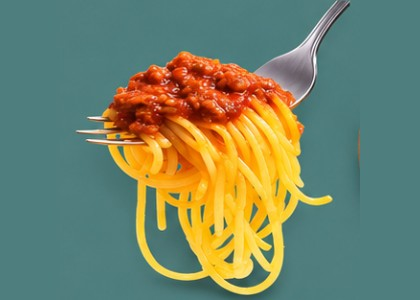
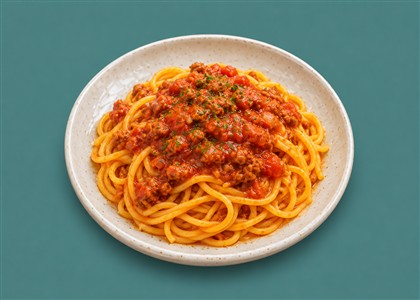
penambahan menu best seller, dan menu bakery, serta pembuatan halaman tentang kami

diff --git a/menu.html b/menu.html
@@ -43,6 +43,84 @@
       ></div>
       <p class="jumlah-menu" id="jumlah-menu" aria-live="polite"></p>
 
+      <div class="kategori-menu" id="bakery">
+        <h2>Bakery</h2>
+        <p>Pilihan etalase dibuat segar setiap hari. Stok dapat berubah setiap hari.</p>
+        <div class="daftar-menu">
+          <div class="kartu-menu">
+            <img class="foto-menu" src="images/menu/pisang-coklat.jpg" alt="Pisang Coklat" loading="lazy" width="420" height="300" />
+            <div class="isi-menu">
+              <h3>Pisang Coklat</h3>
+              <p>Pisang dengan isian cokelat.</p>
+              <div class="harga">Rp5.000</div>
+            </div>
+          </div>
+
+          <div class="kartu-menu">
+            <img class="foto-menu" src="images/menu/banoffee-bread.jpg" alt="Banoffee Bread" loading="lazy" width="420" height="300" />
+            <div class="isi-menu">
+              <h3>Banoffee Bread</h3>
+              <p>Roti manis dengan pisang dan karamel.</p>
+              <div class="harga">Rp8.000</div>
+            </div>
+          </div>
+
+          <div class="kartu-menu">
+            <img class="foto-menu" src="images/menu/coffee-bun.jpg" alt="Coffee Bun" loading="lazy" width="420" height="300" />
+            <div class="isi-menu">
+              <h3>Coffee Bun</h3>
+              <p>Roti bulat dengan lapisan kopi di atasnya.</p>
+              <div class="harga">Rp15.000</div>
+            </div>
+          </div>
+
+          <div class="kartu-menu">
+            <img class="foto-menu" src="images/menu/brownies.jpg" alt="Brownies" loading="lazy" width="420" height="300" />
+            <div class="isi-menu">
+              <h3>Brownies</h3>
+              <p>Potongan brownies cokelat.</p>
+              <div class="harga">Rp22.000</div>
+            </div>
+          </div>
+
+          <div class="kartu-menu">
+            <img class="foto-menu" src="images/menu/croissant.jpg" alt="Croissant" loading="lazy" width="420" height="300" />
+            <div class="isi-menu">
+              <h3>Croissant</h3>
+              <p>Pastri berlapis dengan tekstur renyah. Stok harian terbatas.</p>
+              <div class="harga">Rp18.000</div>
+            </div>
+          </div>
+
+          <div class="kartu-menu">
+            <img class="foto-menu" src="images/menu/donat.jpg" alt="Donat" loading="lazy" width="420" height="300" />
+            <div class="isi-menu">
+              <h3>Donat</h3>
+              <p>Donat manis yang dibuat setiap hari dalam jumlah terbatas.</p>
+              <div class="harga">Rp10.000</div>
+            </div>
+          </div>
+
+          <div class="kartu-menu">
+            <img class="foto-menu" src="images/menu/cinnamon-roll.jpg" alt="Cinnamon Roll" loading="lazy" width="420" height="300" />
+            <div class="isi-menu">
+              <h3>Cinnamon Roll</h3>
+              <p>Roti gulung dengan kayu manis.</p>
+              <div class="harga">Rp18.000</div>
+            </div>
+          </div>
+
+          <div class="kartu-menu">
+            <img class="foto-menu" src="images/menu/sosis-bun.jpg" alt="Sosis Bun" loading="lazy" width="420" height="300" />
+            <div class="isi-menu">
+              <h3>Sosis Bun</h3>
+              <p>Roti lembut dengan isian sosis.</p>
+              <div class="harga">Rp15.000</div>
+            </div>
+          </div>
+        </div>
+      </div>
+
       <div class="kategori-menu" id="brunch">
         <h2>Brunch</h2>
         <div class="daftar-menu">
@@ -1591,7 +1669,7 @@
       </div>
     </main>
 
-    <footer>
+   <footer>
       <div class="wadah-footer">
         <div class="isi-footer">
           <div>
@@ -1609,6 +1687,27 @@
               <a href="galeri.html"> Galeri </a>
               <a href="tentang-kami.html"> Tentang Kami </a>
             </nav>
+          </div>
+          <div id="kontak-footer" aria-labelledby="judul-kontak-footer">
+            <strong id="judul-kontak-footer">Kontak dan Lokasi</strong>
+            <div class="rincian-kontak">
+              <a href="https://www.google.com/maps/search/?api=1&amp;query=AKURASA%2C%20Jl.%20Dangin%20Labak%20No.%20II%2C%20Singakerta%2C%20Ubud%2C%20Bali%2080571">
+                <i class="fa-solid fa-location-dot fa-fw" aria-hidden="true"></i>
+                <span>Jl. Dangin Labak No. II, Singakerta, Ubud, Gianyar, Bali 80571</span>
+              </a>
+              <a href="https://wa.me/6282314693140">
+                <i class="fa-brands fa-whatsapp fa-fw" aria-hidden="true"></i>
+                <span>WhatsApp</span>
+              </a>
+              <a href="https://www.instagram.com/akurasa.ubud?bqrl=a3FpbXVzNmJyYngz">
+                <i class="fa-brands fa-instagram fa-fw" aria-hidden="true"></i>
+                <span>Instagram</span>
+              </a>
+              <a href="https://linktr.ee/akurasaubud?utm_source=ig&utm_medium=social&utm_content=link_in_bio&fbclid=PAb21jcAVrYEdleHRuA2FlbQIxMQBwZG9mAnNydGMGYXBwX2lkDzU2NzA2NzM0MzM1MjQyNwABpxk1pA6ZG0eQS9rk02yGtnL_5nn-lodij7qAYlXDRduI0tRqXCJdMqxHfafN_aem_oMFq9vjvWbjLoJb4VoWf6Q">
+                <i class="fa-brands fa-linktree fa-fw" aria-hidden="true"></i>
+                <span>Linktree</span>
+              </a>
+            </div>
           </div>
         </div>
         <div class="hak-cipta">AKURASA</div>

diff --git a/index.html b/index.html
@@ -66,22 +66,24 @@
           <div class="judul-kecil">Pilihan Favorit</div>
           <h2>Menu Best Seller</h2>
           <p>Beberapa menu favorit yang disediakan AKURASA.</p>
+          <div class="filter-menu" id="filter-menu" role="group" aria-label="Filter Best Seller"></div>
+          <p class="jumlah-menu" id="jumlah-menu" aria-live="polite"></p>
         </header>
-        <div class="kategori-menu">
+        <div class="kategori-menu" id="minuman-favorit">
           <h2>Minuman favorit</h2>
           <div class="daftar-menu">
             <div class="kartu-menu">
               <img
                 class="foto-menu"
-                src="images/menu/oreo-chocolate.jpg"
-                alt="Oreo Chocolate"
+                src="images/menu/aren-latte.jpg"
+                alt="Aren Latte"
                 loading="lazy"
                 width="420"
                 height="300"
               />
               <div class="isi-menu">
-                <h3>Oreo Chocolate</h3>
-                <p>Es cokelat dengan biskuit Oreo.</p>
+                <h3>Aren Latte</h3>
+                <p>Es latte dengan gula aren.</p>
                 <div class="harga">Rp33.000</div>
               </div>
             </div>
@@ -107,30 +109,36 @@
             </div>
           </div>
         </div>
-        <div class="kategori-menu">
+        <div class="kategori-menu" id="bakery">
           <h2>Roti dan camilan</h2>
           <div class="daftar-menu">
             <div class="kartu-menu">
-              <img class="foto-menu" src="images/foto-sementara.svg" alt="" loading="lazy" width="420" height="300" />
+              <img class="foto-menu" src="images/menu/cinnamon-roll.jpg" alt="Cinnamon Roll" loading="lazy" width="420" height="300" />
               <div class="isi-menu">
                 <h3>Cinnamon Roll</h3>
+                <p>Roti gulung dengan kayu manis.</p>
+                <div class="harga">Rp18.000</div>
               </div>
             </div>
             <div class="kartu-menu">
-              <img class="foto-menu" src="images/foto-sementara.svg" alt="" loading="lazy" width="420" height="300" />
+              <img class="foto-menu" src="images/menu/sosis-bun.jpg" alt="Sosis Bun" loading="lazy" width="420" height="300" />
               <div class="isi-menu">
                 <h3>Sosis Bun</h3>
+                <p>Roti lembut dengan isian sosis.</p>
+                <div class="harga">Rp15.000</div>
               </div>
             </div>
             <div class="kartu-menu">
-              <img class="foto-menu" src="images/foto-sementara.svg" alt="" loading="lazy" width="420" height="300" />
+              <img class="foto-menu" src="images/menu/donat.jpg" alt="Donat" loading="lazy" width="420" height="300" />
               <div class="isi-menu">
                 <h3>Donat</h3>
+                <p>Donat manis yang dibuat setiap hari dalam jumlah terbatas.</p>
+                <div class="harga">Rp10.000</div>
               </div>
             </div>
           </div>
         </div>
-        <div class="kategori-menu">
+        <div class="kategori-menu" id="hidangan-utama">
           <h2>Hidangan utama</h2>
           <div class="daftar-menu">
             <div class="kartu-menu">
@@ -261,5 +269,6 @@
         <div class="hak-cipta">AKURASA</div>
       </div>
     </footer>
+    <script src="script.js" defer></script>
   </body>
 </html>

diff --git a/tentang-kami.html b/tentang-kami.html
@@ -1,11 +1,59 @@
 <!DOCTYPE html>
-<html lang="en">
+<html lang="id">
 <head>
     <meta charset="UTF-8">
     <meta name="viewport" content="width=device-width, initial-scale=1.0">
-    <title>AKURASA | Tentang Kami</title>
+<title>AKURASA | Tentang Kami</title>
+    <link rel="stylesheet" href="https://cdn.jsdelivr.net/npm/@fortawesome/fontawesome-free@7.3.1/css/all.min.css">
+    <link rel="stylesheet" href="style.css">
 </head>
 <body>
-    
+    <header class="navigasi">
+      <div class="isi-navigasi">
+        <a href="index.html" aria-label="AKURASA Beranda">
+          <img
+            class="gambar-logo"
+            src="images/logo.png"
+            alt="Logo AKURASA"
+            width="56"
+            height="56"
+          />
+        </a>
+        <nav class="daftar-navigasi" aria-label="Navigasi utama">
+          <a href="index.html"> Beranda </a>
+          <a href="menu.html"> Menu </a>
+          <a href="galeri.html"> Galeri </a>
+          <a href="tentang-kami.html" aria-current="page"> Tentang Kami </a>
+        </nav>
+      </div>
+    </header>
+    <main class="halaman-cerita">
+      <div class="cerita-utama">
+        <div>
+          <p class="judul-kecil">Ubud, Bali · Sejak 2026</p>
+          <h1>Tentang AKURASA</h1>
+          <p>Selamat datang di AKURASA!</p>
+          <p>Akurasa adalah tempat yang nyaman untuk bersantap dan berbincang-bincang. Kami hadir untuk memberikan pengalaman makanan yang lezat dan suasana yang hangat. Akurasa tidak hanya sekedar menyajikan hidangan, tetapi menyajikan seni makanan yang unik.</p>
+          <p>Di tahun pertama kami di Ubud, kami ingin AKURASA jadi tempat yang enak untuk duduk dan mengobrol. Remaja bisa mampir sepulang sekolah, dan ibu-ibu bisa berkumpul dengan teman sambil menikmati hidangan favorit.</p>
+          <a class="tombol tombol-hitam" href="menu.html">Lihat menu</a>
+        </div>
+        <div class="foto-cerita">
+          <img src="images/menu/suasana1.jpg" alt="Suasana AKURASA">
+        </div>
+      </div>
+
+      <div class="detail-cerita">
+        <div>
+          <h2>Favorit di meja kami</h2>
+          <p>Untuk teman mengobrol, padukan Oreo atau Matcha Latte dengan Cinnamon Roll, Sosis Bun, atau Donat. Kalau datang untuk makan bersama, ada Tipat Cantok, Pizza, Mie Goreng, dan Nasi Goreng.</p>
+        </div>
+        <div class="info-kunjungan">
+          <h2>Jam buka</h2>
+          <p>09.00–23.00 WITA</p>
+          <h3>Live music setiap Kamis</h3>
+          <p>Nikmati musik langsung sambil bersantap bersama teman.</p>
+        </div>
+      </div>
+    </main>
 </body>
 </html>

diff --git a/script.js b/script.js
@@ -1,4 +1,4 @@
-const katalog = document.querySelector(".katalog");
+const katalog = document.querySelector(".katalog, #best-seller");
 
 if (katalog) {
   const daftarKategori = Array.from(
@@ -7,6 +7,8 @@ if (katalog) {
   const tombolFilter = document.querySelector("#filter-menu");
   const informasiJumlah = document.querySelector("#jumlah-menu");
   const kategoriMakanan = new Set([
+    "bakery",
+    "hidangan-utama",
     "brunch",
     "rujak-dan-tipat",
     "menu-indonesia",
@@ -14,6 +16,7 @@ if (katalog) {
     "kids-snack",
   ]);
   const kategoriMinuman = new Set([
+    "minuman-favorit",
     "coffee",
     "signature-coffee",
     "chocolate-series",
@@ -88,7 +91,8 @@ if (katalog) {
 
     buatTombol("Semua", "semua", jumlahSemua);
 
-    ["makanan", "minuman", "lainnya"].forEach((jenis) => {
+    const jenisFilter = katalog.id === "best-seller" ? [] : ["makanan", "minuman", "lainnya"];
+    jenisFilter.forEach((jenis) => {
       const jumlah = jumlahKategori(jenis);
       if (jumlah > 0) {
         const nama = jenis.charAt(0).toUpperCase() + jenis.slice(1);
